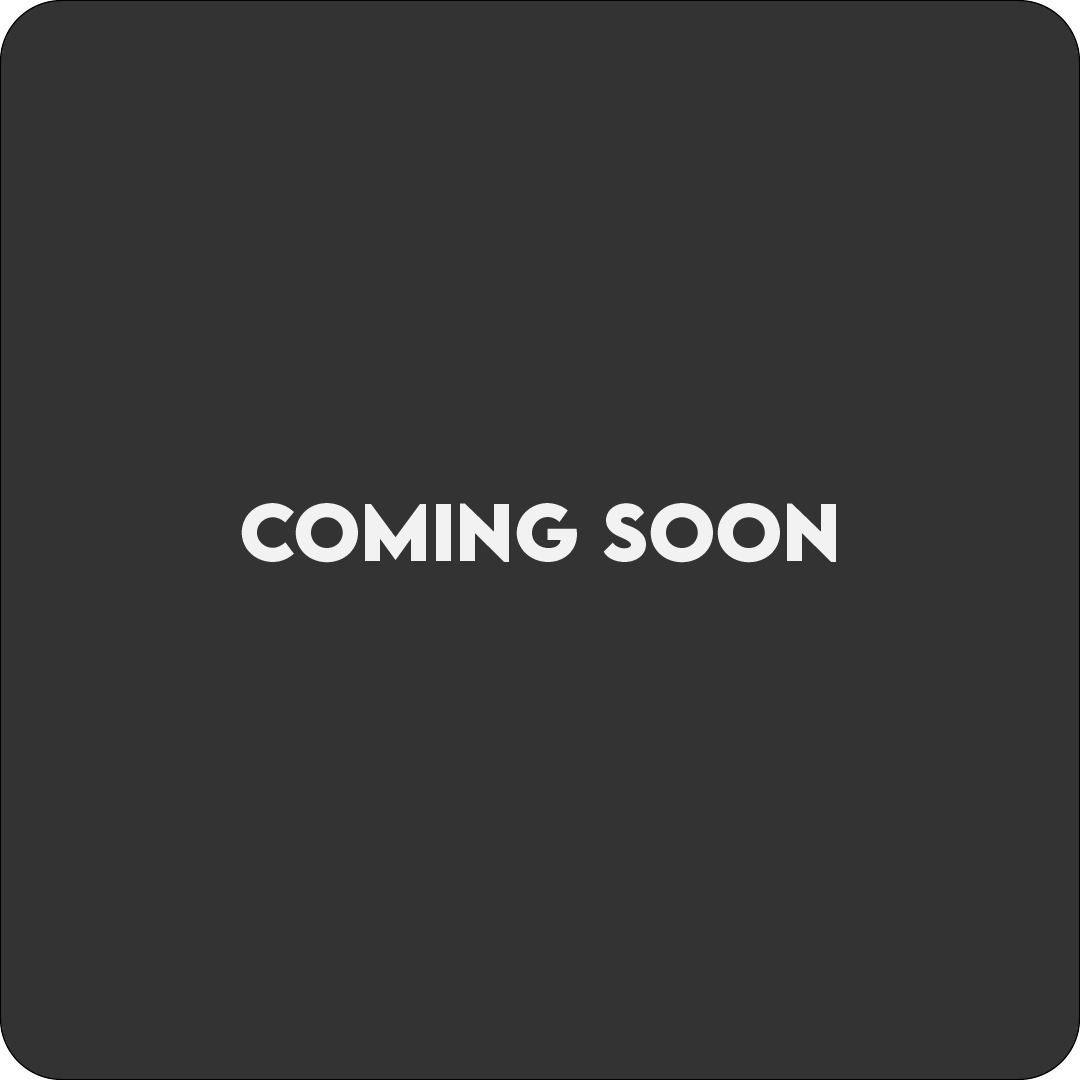
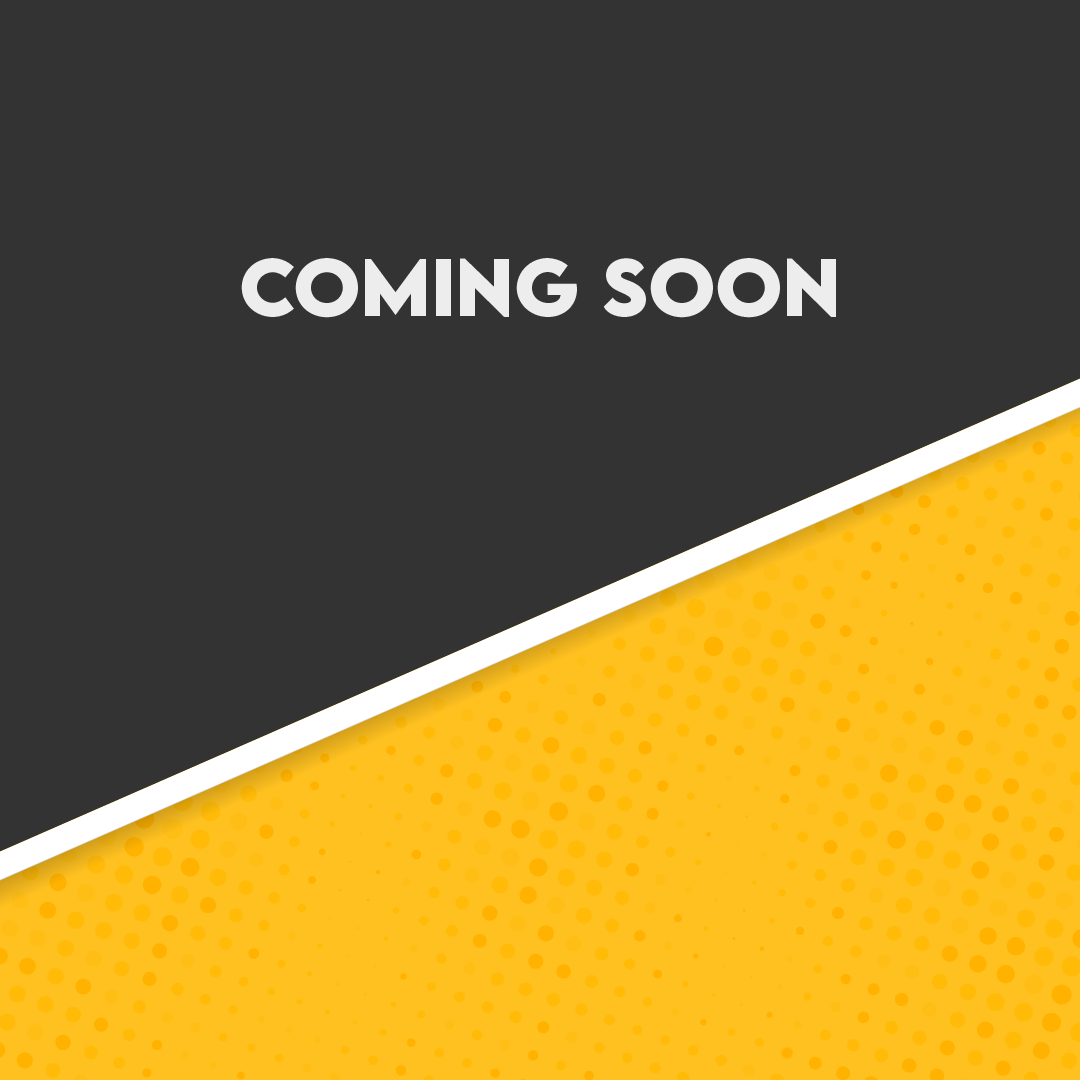
Design changes

diff --git a/index.html b/index.html
@@ -44,7 +44,7 @@
         
                 <!-- Project 3 -->
                 <div class="col-md-4 mb-4">
-                    <img src="Coming Soon.png" alt="Project 3" class="img-fluid">
+                    <img src="Coming Soon 2.png" alt="Project 3" class="img-fluid">
                     <h5 class="mt-2">Project 3</h5>
                     <a href="project3_link.html" class="btn btn-primary">View Project</a>
                 </div>

diff --git a/styles.css b/styles.css
@@ -49,3 +49,14 @@ footer {
     bottom: 0;
     width: 100%;
 }
+
+.col-md-4 {
+    display: flex;
+    flex-direction: column;
+    align-items: center;
+}
+
+.btn.btn-primary  {
+    background-color: #333;
+    border-color:goldenrod;
+}

diff --git a/DriftingBalls/wk02driftballs.html b/DriftingBalls/wk02driftballs.html
@@ -35,7 +35,7 @@
         border: 1px solid #000;
         position: absolute;
         top: 200px;
-        left: 0px;
+        left: 30%;
         overflow: hidden;
     }
 </style>
